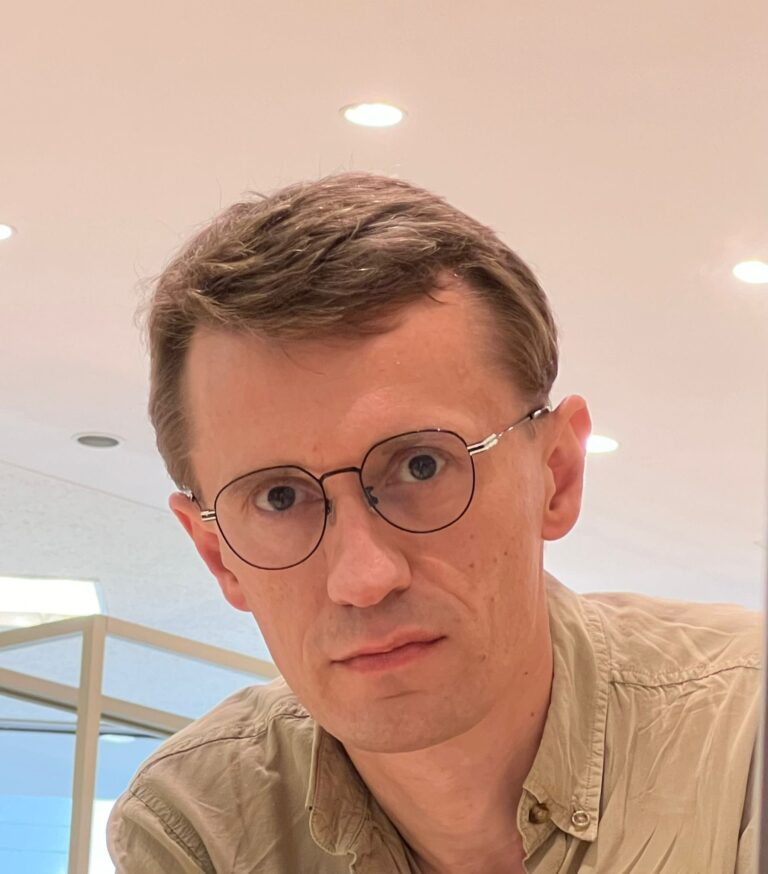
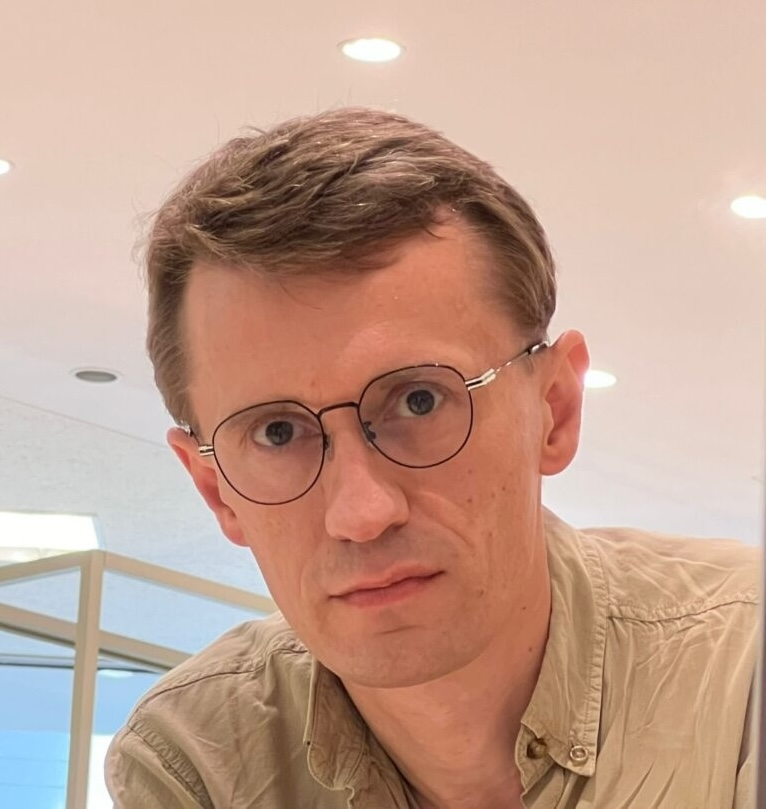
updated headshots

diff --git a/program.html b/program.html
@@ -127,7 +127,7 @@
                             <span class="speaker-name">Dmitry Schigel</span>
                         </a>
                         <a class="speaker-card" href="https://www.ab.mpg.de/person/130331/2736">
-                            <img class="speaker-photo" src="./assets/fabiola-iannarilli.webp" alt="Fabiola Iannarilli">
+                            <img class="speaker-photo" src="./assets/fabiola-iannarilli.png" alt="Fabiola Iannarilli">
                             <span class="speaker-name">Fabiola Iannarilli</span>
                         </a>
                         <a class="speaker-card" href="https://hmullerlandau.com">
@@ -139,7 +139,7 @@
                             <span class="speaker-name">Laura Chrobak</span>
                         </a>
                         <a class="speaker-card" href="https://sites.google.com/maine.edu/record-lab/team?authuser=0">
-                            <img class="speaker-photo" src="./assets/sydne-record.jpg" alt="Sydne Record">
+                            <img class="speaker-photo" src="./assets/sydne-record.png" alt="Sydne Record">
                             <span class="speaker-name">Sydne Record</span>
                         </a>
                     </div>
